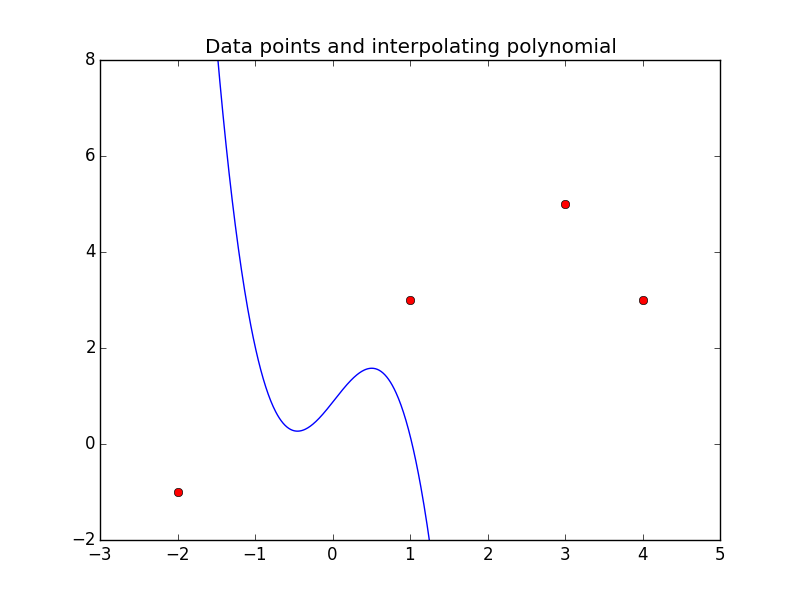
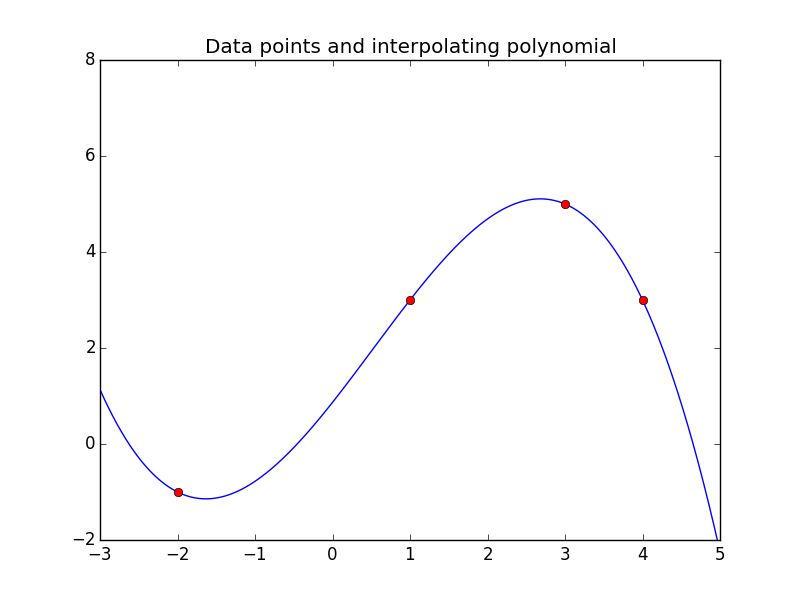
Homework 2 finished

diff --git a/homework2/hw2b.py b/homework2/hw2b.py
@@ -26,6 +26,9 @@ def quad_interp(xi,yi):
     error_message = "xi and yi should have length 3"
     assert len(xi)==3 and len(yi)==3, error_message
 
+    error_message = "it is not possible to have more than one point in the with the same xi"
+    assert (len(np.unique(xi)) == len(xi)), error_message
+
     # Set up linear system to interpolate through data points:
 
     A = np.array([[1, 1, 1], xi, xi**2]).T
@@ -35,9 +38,9 @@ def quad_interp(xi,yi):
     
     return c
 
+
 def plot_quad(xi, yi):
     c = quad_interp(xi,yi)
-
     
     # Plot the resulting polynomial:
     x = np.linspace(xi.min() - 1, xi.max() + 1, 1000)   # points to evaluate polynomial
@@ -86,14 +89,12 @@ def cubic_interp(xi,yi):
     return c
 
 
-
 def plot_cubic(xi, yi):
     c = cubic_interp(xi,yi)
-
     
     # Plot the resulting polynomial:
     x = np.linspace(xi.min() - 1, xi.max() + 1, 1000)   # points to evaluate polynomial
-    y = c[0] + c[1]*x + c[2]*x**2 + x[3]*x**3
+    y = c[0] + c[1]*x + c[2]*x**2 + c[3]*x**3
 
     plt.figure(1)       # open plot figure window
     plt.clf()           # clear figure
@@ -108,6 +109,63 @@ def plot_cubic(xi, yi):
     plt.savefig('cubic.png')   # save figure as .png file
 
 
+def poly_interp(xi,yi):
+    """
+    N-grade interpolation. 
+
+    """
+
+    # check inputs and print error message if not valid:
+
+    error_message = "xi and yi should have type numpy.ndarray"
+    assert (type(xi) is np.ndarray) and (type(yi) is np.ndarray), error_message
+
+    error_message = "xi and yi should have the same length"
+    assert len(xi)==len(yi), error_message
+
+    error_message = "it is not possible to have more than one point in the with the same xi"
+    assert (len(np.unique(xi)) == len(xi)), error_message
+
+    # Set up linear system to interpolate through data points:
+
+    n = len(xi)
+    a = [np.ones(n)]
+
+    for i in range(1, n):
+        a.append(xi**i)
+    
+    A = np.array(a).T
+    b = yi
+
+    c = solve(A,b)
+    
+    return c
+
+
+def plot_poly(xi, yi):
+    c = poly_interp(xi,yi)
+    
+    # Plot the resulting polynomial:
+    x = np.linspace(xi.min() - 1, xi.max() + 1, 1000)   # points to evaluate polynomial
+
+    n = len(xi)
+    y = 0
+    for i in range(0, n):
+        y = y + c[i]*x**i
+
+    plt.figure(1)       # open plot figure window
+    plt.clf()           # clear figure
+    plt.plot(x,y,'b-')  # connect points with a blue line
+
+    # Add data points  (polynomial should go through these points!)
+    plt.plot(xi,yi,'ro')   # plot as red circles
+    plt.ylim(-2,8)         # set limits in y for plot
+
+    plt.title("Data points and interpolating polynomial")
+
+    plt.savefig('poly.png')   # save figure as .png file
+
+    
 def test_quad1():
     """
     Test code, no return value or exception if test runs properly.
@@ -121,7 +179,26 @@ def test_quad1():
     # test that all elements have small error:
     assert np.allclose(c, c_true), \
         "Incorrect result, c = %s, Expected: c = %s" % (c,c_true)
-        
+
+    
+def test_cubic():
+    """
+    Test code, no return value or exception if test runs properly.
+    """
+    xi = np.array([-1.,  0.,  2., 4.])
+    yi = np.array([ 1., -1.,  7., 6.])
+    
+    c = quad_interp(xi,yi)
+    c_true = np.array([-1.   ,  1.25 ,  2.625, -0.625])
+    
+    print("c =      ", c)
+    print("c_true = ", c_true)
+    
+    # test that all elements have small error:
+    assert np.allclose(c, c_true), \
+        "Incorrect result, c = %s, Expected: c = %s" % (c,c_true)
+
+    
 if __name__=="__main__":
     # "main program"
     # the code below is executed only if the module is executed at the command line,
@@ -131,4 +208,4 @@ if __name__=="__main__":
     # not if the module is imported.
     print("Running test...")
     test_quad1()
-
+    test_cubic()
